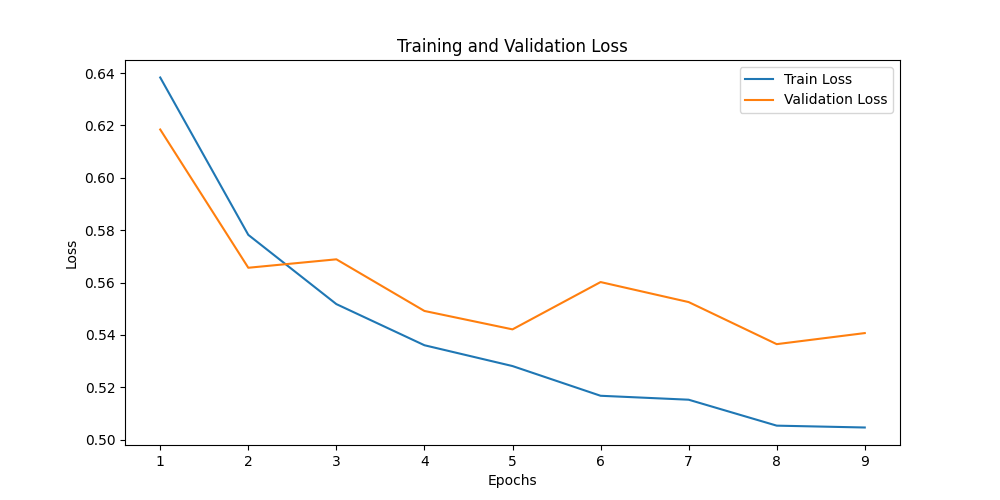
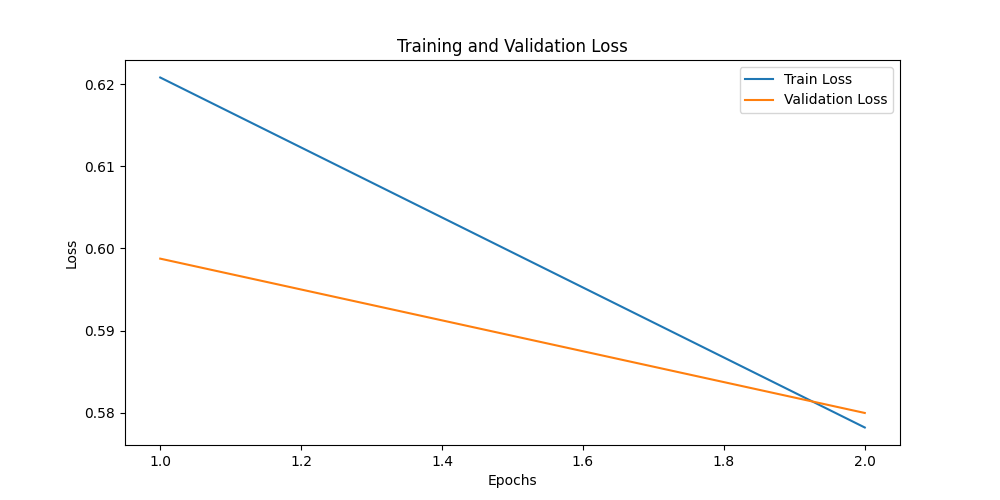
added readme

diff --git a/test.py b/test.py
@@ -1,37 +1,43 @@
 import torch
-from transformers import BertTokenizer
+import torch.nn.functional as F
+from transformers import AutoTokenizer
+from model_final import ParaphraseDetector  # Import your model class
 
 device = "cuda" if torch.cuda.is_available() else "cpu"
 
-def load_model(model_path="paraphrase-detection\model_final.pth"):
-
-    model = torch.load(model_path, map_location=device)
+def load_model(model_path="paraphrase-detection/model_final.pth"):
+    model = ParaphraseDetector()
+    model.load_state_dict(torch.load(model_path, map_location=device))
     model.to(device)
     model.eval()
     return model
+
+def cosine_similarity(tensor1, tensor2):
+    return F.cosine_similarity(tensor1, tensor2, dim=0).item()
 
 def predict_paraphrase(model, sentence1, sentence2, tokenizer):
     inputs = tokenizer(
         sentence1, sentence2,
         padding="max_length", truncation=True, max_length=256, return_tensors="pt"
     )
-    
+
     input_ids = inputs["input_ids"].to(device)
     attention_mask = inputs["attention_mask"].to(device)
-    
+
     with torch.no_grad():
-        outputs = model(input_ids, attention_mask=attention_mask)
-        prediction = torch.argmax(outputs, dim=1).item()
-    
-    return "Paraphrase" if prediction == 1 else "Not a Paraphrase"
+        logits, encoded1, encoded2 = model(input_ids, attention_mask=attention_mask)
+        similarity_score = cosine_similarity(encoded1.squeeze(0)[0], encoded2.squeeze(0)[0])
+        prediction = 1 if similarity_score > 0.60 else 0
+    return "Paraphrase" if prediction == 1 else "Not a Paraphrase", similarity_score
 
 if __name__ == "__main__":
-    tokenizer = BertTokenizer.from_pretrained("bert-base-uncased")
+    tokenizer = AutoTokenizer.from_pretrained("bert-base-uncased")
     model = load_model()
-    
+
     while True:
         sentence1 = input("Enter first sentence: ")
         sentence2 = input("Enter second sentence: ")
-        
-        result = predict_paraphrase(model, sentence1, sentence2, tokenizer)
-        print(f"Result: {result}\n")
+
+        result, score = predict_paraphrase(model, sentence1, sentence2, tokenizer)
+        print(f"Result: {result}")
+        print(f"Cosine Similarity Score: {score:.4f}\n")

diff --git a/train.py b/train.py
@@ -43,7 +43,7 @@ def train_model(model, train_dataloader, val_dataloader, optimizer, num_epochs=5
             attention_mask = batch['attention_mask'].to(device)
             labels = batch['label'].to(device)
             optimizer.zero_grad()
-            outputs = model(input_ids, attention_mask=attention_mask)
+            outputs,_,_ = model(input_ids, attention_mask=attention_mask)
             loss = criterion(outputs, labels)
             
             loss.backward()
@@ -74,7 +74,7 @@ def train_model(model, train_dataloader, val_dataloader, optimizer, num_epochs=5
                 attention_mask = batch['attention_mask'].to(device)
                 labels = batch['label'].to(device)
                 
-                outputs = model(input_ids, attention_mask=attention_mask)
+                outputs,_,_ = model(input_ids, attention_mask=attention_mask)
                 loss = criterion(outputs, labels)
                 
                 val_loss += loss.item()
@@ -123,7 +123,7 @@ def train_model(model, train_dataloader, val_dataloader, optimizer, num_epochs=5
 
 
 #hyperparameters
-num_epochs = 10
+num_epochs = 2
 lr = 1e-5
 weight_decay = 0.01
 batch_size = 16
@@ -141,4 +141,4 @@ optimizer = torch.optim.AdamW(model.parameters(), lr=lr, weight_decay=weight_dec
 model = train_model(model, train_loader, val_loader, optimizer, num_epochs=num_epochs)
 
 print("Training success.. saving the model...")
-torch.save(model, 'model_final.pth')
+torch.save(model.state_dict(), 'model_final.pth')

diff --git a/model_final.py b/model_final.py
@@ -61,4 +61,4 @@ class ParaphraseDetector(nn.Module):
         output = self.dropout(output)
         logits = self.linear2(output)
         
-        return logits
+        return logits, encoded1, encoded2

diff --git a/README.md b/README.md
@@ -1,0 +1,95 @@
+<h1 align="center">Turing's Playground</h1>
+<p align="center">
+</p>
+<a href="https://weekendofcode.computercodingclub.in/"> 
+    <img src="https://i.postimg.cc/njCM24kx/woc.jpg" height=30px> 
+</a>
+
+## Introduction:
+Turing's Playground is an advanced AI-based system designed to detect paraphrases between two given sentences. The model is built using a **Transformer-based architecture** and trained on a **paraphrase detection dataset**. It aims to enhance natural language understanding by accurately determining whether two sentences convey the same meaning. The system predicts a binary output (**Paraphrase / Not a Paraphrase**) along with a **cosine similarity score** between the encoded representations of both sentences.
+
+---
+
+## Table of Contents:
+1. [Technology Stack](#technology-stack)  
+2. [Dataset](#dataset)  
+3. [Model Architecture](#model-architecture)  
+4. [Training Process](#training-process)  
+5. [Testing & Evaluation](#testing--evaluation)  
+6. [Contributors](#contributors)  
+7. [Training Loss](#training-loss)  
+8. [Made At](#made-at)  
+
+---
+
+## Technology Stack:
+The project is built using the following technologies:
+
+- **Python** – Core programming language  
+- **PyTorch** – Deep learning framework  
+- **Transformers (Hugging Face)** – Pretrained embeddings & tokenization  
+- **Jupyter Notebook** – Model training & experimentation  
+
+---
+
+## Dataset:
+The model is trained on a **paraphrase detection dataset**, where each data sample consists of:  
+- **Sentence 1**
+- **Sentence 2**
+- **Label (1 = Paraphrase, 0 = Not a Paraphrase)**  
+
+The dataset is tokenized using **BERT-base-uncased** and split into **training and validation sets**.
+
+---
+
+## Model Architecture:
+The paraphrase detection model is based on a **Transformer Encoder** architecture with additional layers:
+
+- **Pretrained Transformer Encoder**: Extracts contextual embeddings from sentences.  
+- **Multi-Head Attention Layers**: Enhances interactions between sentence pairs.  
+- **Fully Connected Layers**: Combines sentence representations to make predictions.  
+- **Cosine Similarity Calculation**: Measures semantic closeness between sentence embeddings.  
+![Model architecture](paraphrase-detection/BERT_NLP_model_architecture_d285530efe.webp)
+---
+
+
+## Training Process:
+The model is trained using **cross-entropy loss** for classification, while cosine similarity is used as an additional metric for sentence embeddings.  
+
+### **Hyperparameters:**
+- **Pretrained Model:** `bert-base-uncased`
+- **Batch Size:** 32  
+- **Learning Rate:** `3e-5` (with warm-up schedule)  
+- **Optimizer:** AdamW  
+- **Dropout Rate:** 0.45  
+
+### **Training Loss Graph:**
+The following graph represents the training and validation loss over multiple epochs:
+
+![Training Loss](paraphrase-detection/loss_plot.png)
+
+---
+
+## Testing & Evaluation:
+After training, the model is tested using a separate validation set. The evaluation involves:
+
+- **Binary Classification Accuracy**  
+- **Precision, Recall, F1 Score**  
+- **Cosine Similarity Score for Sentences**  
+
+To test the model manually, you can use the `test.py` script by providing two sentences as input.
+
+---
+
+## Contributors:
+**Team Name:** B200
+
+- [Aditya Sahani](https://github.com/Aditya-en)  
+- [Krishna Mohan](https://github.com/kmohan321)  
+
+---
+
+## Made at:
+<a href="https://weekendofcode.computercodingclub.in/"> 
+    <img src="https://i.postimg.cc/mrCCnTbN/tpg.jpg" height=30px> 
+</a>
